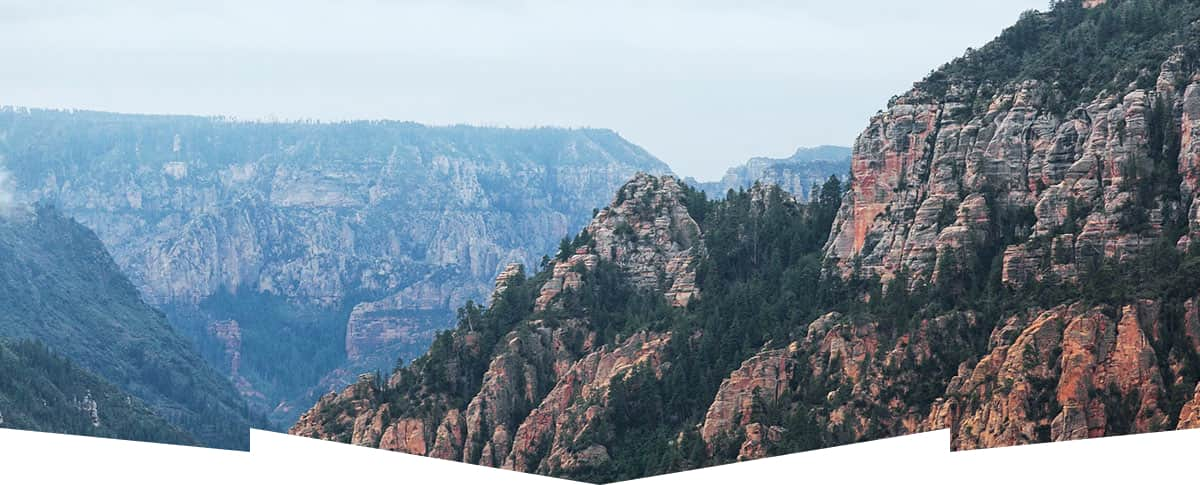
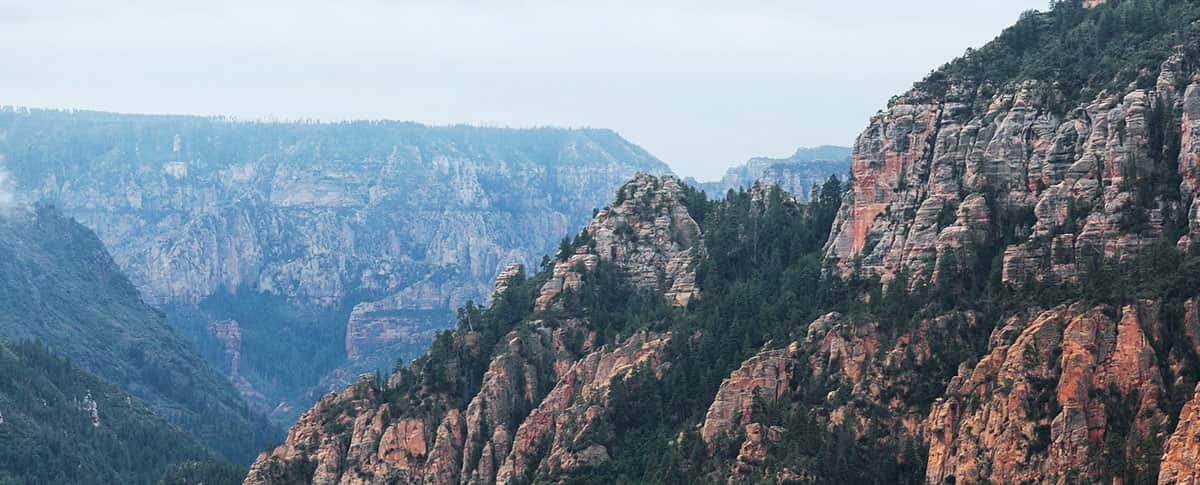
Дорабатывает после первой проверки
1. Изменил формат картинки с jpeg  на svg
2.  Сделал появление тултипа по наведению

Changed region(s): [[0.0, 0.866, 1.0, 1.0]]

diff --git a/styles/styles.css b/styles/styles.css
@@ -165,11 +165,12 @@ body {
   width: 1200px;
   margin: 0 auto;
   background: linear-gradient(#808080, #82b3d3);
-  background-image: url("../images/hero-background.jpg");
+  background-image:
+  url("../images/divider.svg"),
+  url("../images/hero-background.jpg");
   background-repeat: no-repeat;
+  background-position: center bottom, center;
   background-size: 100% auto;
-  color: #000000;
-  background-color: #ffffff;
   min-height: 485px;
 }
 
@@ -1687,7 +1688,7 @@ body {
 
 .tooltip-text {
   position: relative;
-  display: block;
+  display: none;
   padding: 19px 18px 22px 22px;
   top: 17px;
   left: 32px;
@@ -1710,6 +1711,11 @@ body {
   width: 19px;
   height: 19px;
   background-color: #333333;
+}
+
+.tooltip-toggle:hover,
+.tooltip-toggle:focus {
+  background-color: #9bc2db;
 }
 
 .tooltip-toggle:hover + .tooltip-text,

diff --git a/index.html b/index.html
@@ -50,7 +50,7 @@
          <h1 class="visually-hidden">
             Добро пожаловать в великолепный Седона, потому что большой каньон не лучше!
           </h1>
-          <img class="hero-welcome" src="images/hero-welcome.png" width="458" height="352" alt="Добро пожаловать в великолепный Седона">
+          <img class="hero-welcome" src="images/hero-welcome.svg" width="458" height="352" alt="Добро пожаловать в великолепный Седона">
         </section>
           <section class="advantages" data-test="advantages">
             <div class="causes-title">
